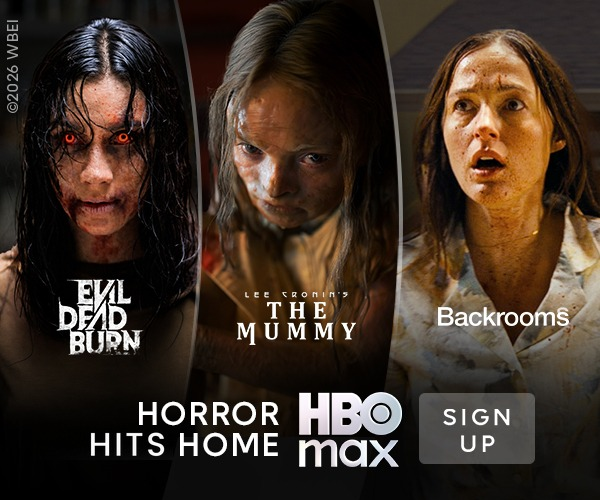
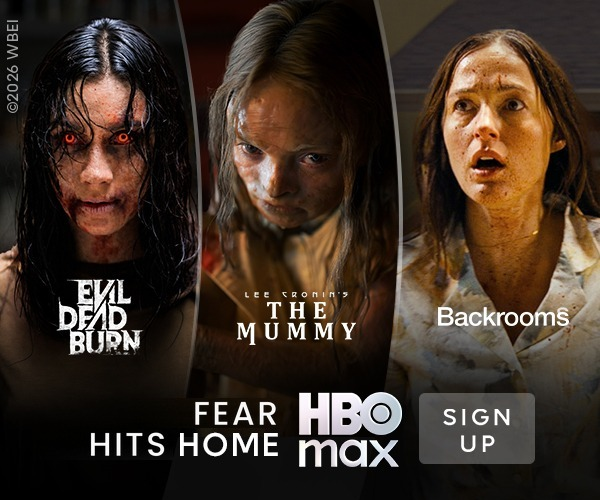
Halloween: Fear hits home across image and copy
Claude-Session: https://claude.ai/code/session_01QbD3WLRj9gJg9SRMW6wX7A

Changed region(s): [[0.21, 0.78, 0.48, 0.87]]

diff --git a/index.html b/index.html
@@ -460,14 +460,14 @@ const PIECES = {
     pics: [["hbo-max-trailer", "HBO Max trailer"]] },
 
   211: { tag: "CAMPAIGN", title: "HBO MAX HALLOWEEN 2026 CAMPAIGN", meta: "HBO Max · Halloween 2026 · Campaign concept · AV & online · Warner Bros. Discovery",
-    quote: "This autumn, fear hits home.",
+    quote: "Fear hits home.",
     body: [
-      "For Halloween 2026 on HBO Max, I came up with the overarching campaign concept: \u201chits home\u201d.",
+      "For Halloween 2026 on HBO Max, I came up with the campaign line: \u201cFear hits home.\u201d",
       "The line has a double meaning. It speaks to the quality of the horror on HBO Max, the kind that really gets to you, and to the Home in Home Box Office, because this is horror you watch from your own sofa.",
-      "The concept flexed across AV and online assets, from the trailer line \u201cThis autumn, fear hits home\u201d to display creative reading \u201cHorror hits home\u201d.",
+      "The line flexed across AV and online assets, from the trailer to display creative.",
     ],
     video: ["hbo-max-halloween", "HBO Max Halloween 2026 trailer"],
-    pics: [["hbo-max-halloween", "Display creative: \u201cHorror hits home\u201d"]] },
+    pics: [["hbo-max-halloween", "Display creative: \u201cFear hits home\u201d"]] },
 
   401: { title: "TNT SPORTS CRM, INCLUDING PARIS 2024", meta: "TNT Sports · Paris 2024 · CRM · Warner Bros. Discovery",
     body: [
